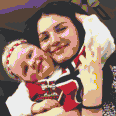
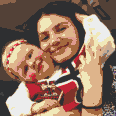
checkpoint

diff --git a/src/beadify.py b/src/beadify.py
@@ -38,7 +38,7 @@ def change_resolution(image_path, pegboard_dimension):
     image.convert("RGB")
     return image
 
-def change_colors(image, pegboard_dimension, method='perception'):
+def change_colors(image, pegboard_dimension, method='euclidean'):
     """
     Change RGB values to closest available bead colors.
     """
@@ -93,7 +93,7 @@ def change_colors(image, pegboard_dimension, method='perception'):
 	
     return image_recolored, beads_needed
 
-def switch_colors(image, beads_needed, col, new_col):
+def switch_colors(image, beads_needed, col, new_col, y_max=None, x_max=None, y_min=None, x_min=None):
 
     colors = pd.read_csv('../src/colors.csv')
     color = colors[colors['code'] == col].reset_index()
@@ -102,16 +102,31 @@ def switch_colors(image, beads_needed, col, new_col):
     q = beads_needed[beads_needed['code']==col]['quantity'].values[0]
     q2 = beads_needed[beads_needed['code']==new_col]['quantity'].values[0]
 
-    beads_needed.loc[beads_needed['code']==col, 'quantity'] = 0
-    beads_needed.loc[beads_needed['code']==new_col, 'quantity'] = q + q2
-
     data = np.array(image)
     red, green, blue = data.T
     
     area = (red == color['R'][0]) & (green == color['G'][0]) & (blue == color['B'][0])
 
-    #print(data.shape); exit()
-    data[area.T] = (new_color['R'][0], new_color['G'][0], new_color['B'][0]) # Transpose back needed
+    if y_max is None:
+        y_max = data.shape[0]
+    if x_max is None:
+        x_max = data.shape[1]
+    if y_min is None:
+        y_min = 0
+    if x_min is None:
+        x_min = 0
+
+    boolarr = np.zeros(data.shape[:2], dtype=bool)
+    boolarr[y_min:y_max,x_min:x_max] = True
+
+    area = area.T * boolarr
+    q3 = np.sum(area)
+
+    data[area] = (new_color['R'][0], new_color['G'][0], new_color['B'][0]) # Transpose back needed
+
+
+    beads_needed.loc[beads_needed['code']==col, 'quantity'] = q - q3
+    beads_needed.loc[beads_needed['code']==new_col, 'quantity'] =  q2 + q3
 
     image = Image.fromarray(data)
     return image, beads_needed

diff --git a/run/run.py b/run/run.py
@@ -40,7 +40,9 @@ if __name__ == "__main__":
     image_resized.save('../out/image_resized.png')
 
     image_recolored, beads_needed = change_colors(image_resized, pegboard_dimension)
-    #image_recolored, beads_needed = switch_colors(image_recolored, beads_needed, 'H02', 'H18')
+
+
+    #image_recolored, beads_needed = switch_colors(image_recolored, beads_needed, 'H12', 'H18', 17,40)
     image_recolored.save('../out/image_recolored.png')
     
     colors = pd.read_csv('../src/colors.csv')
@@ -86,9 +88,5 @@ if __name__ == "__main__":
             color = colors[(colors['R'] == r) & (colors['G'] == g) & (colors['B'] == b)]["name"].values[0]
             count = 1
             print(str(count) + "-" + color + " ", end=' ')
-        
-    
-    #image_color_switch, beads_needed = switch_colors(image_recolored, beads_needed, 'H07', 'H12')
-    #image_color_switch.save('../out/image_color_switch.png')
 
     print(beads_needed[['name','code','quantity']].sort_values(by='quantity', ascending=False))
